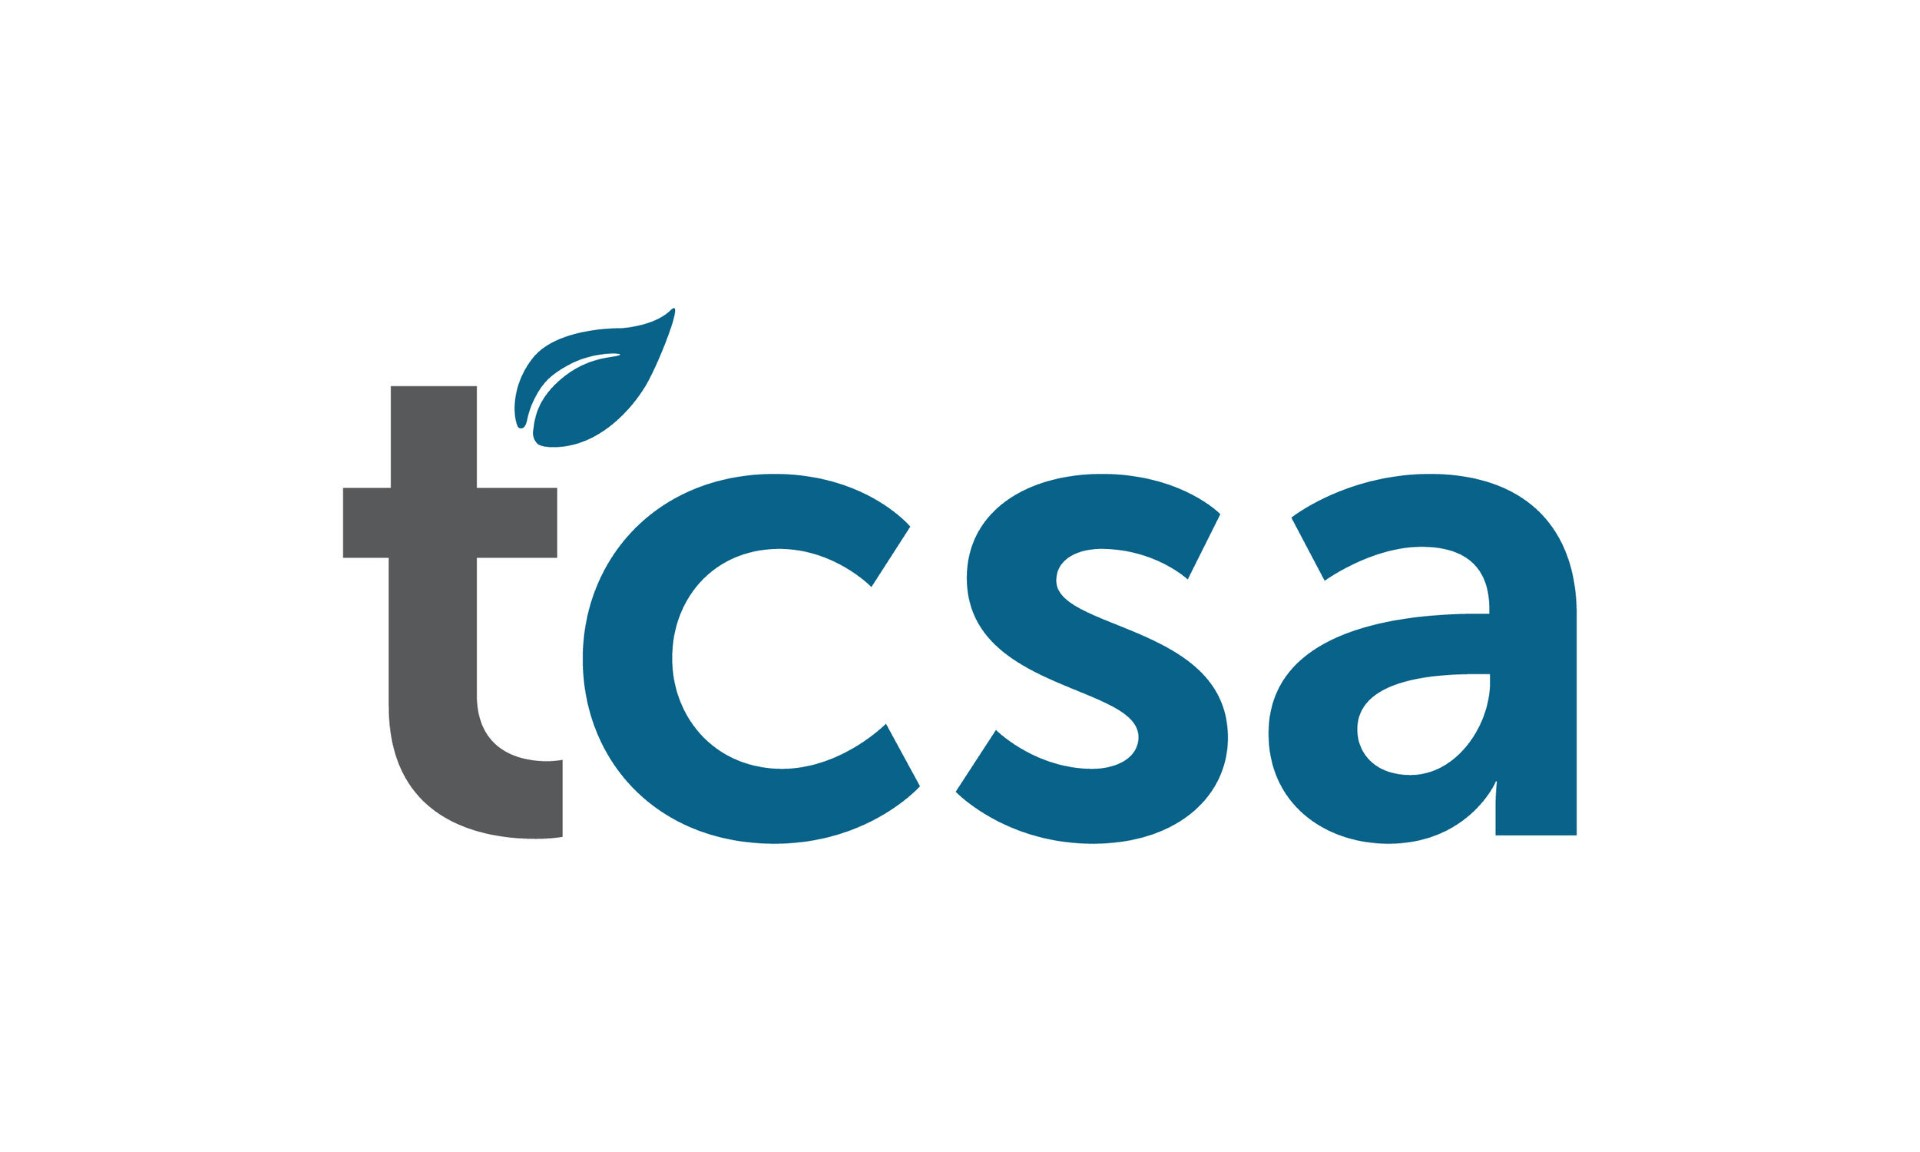
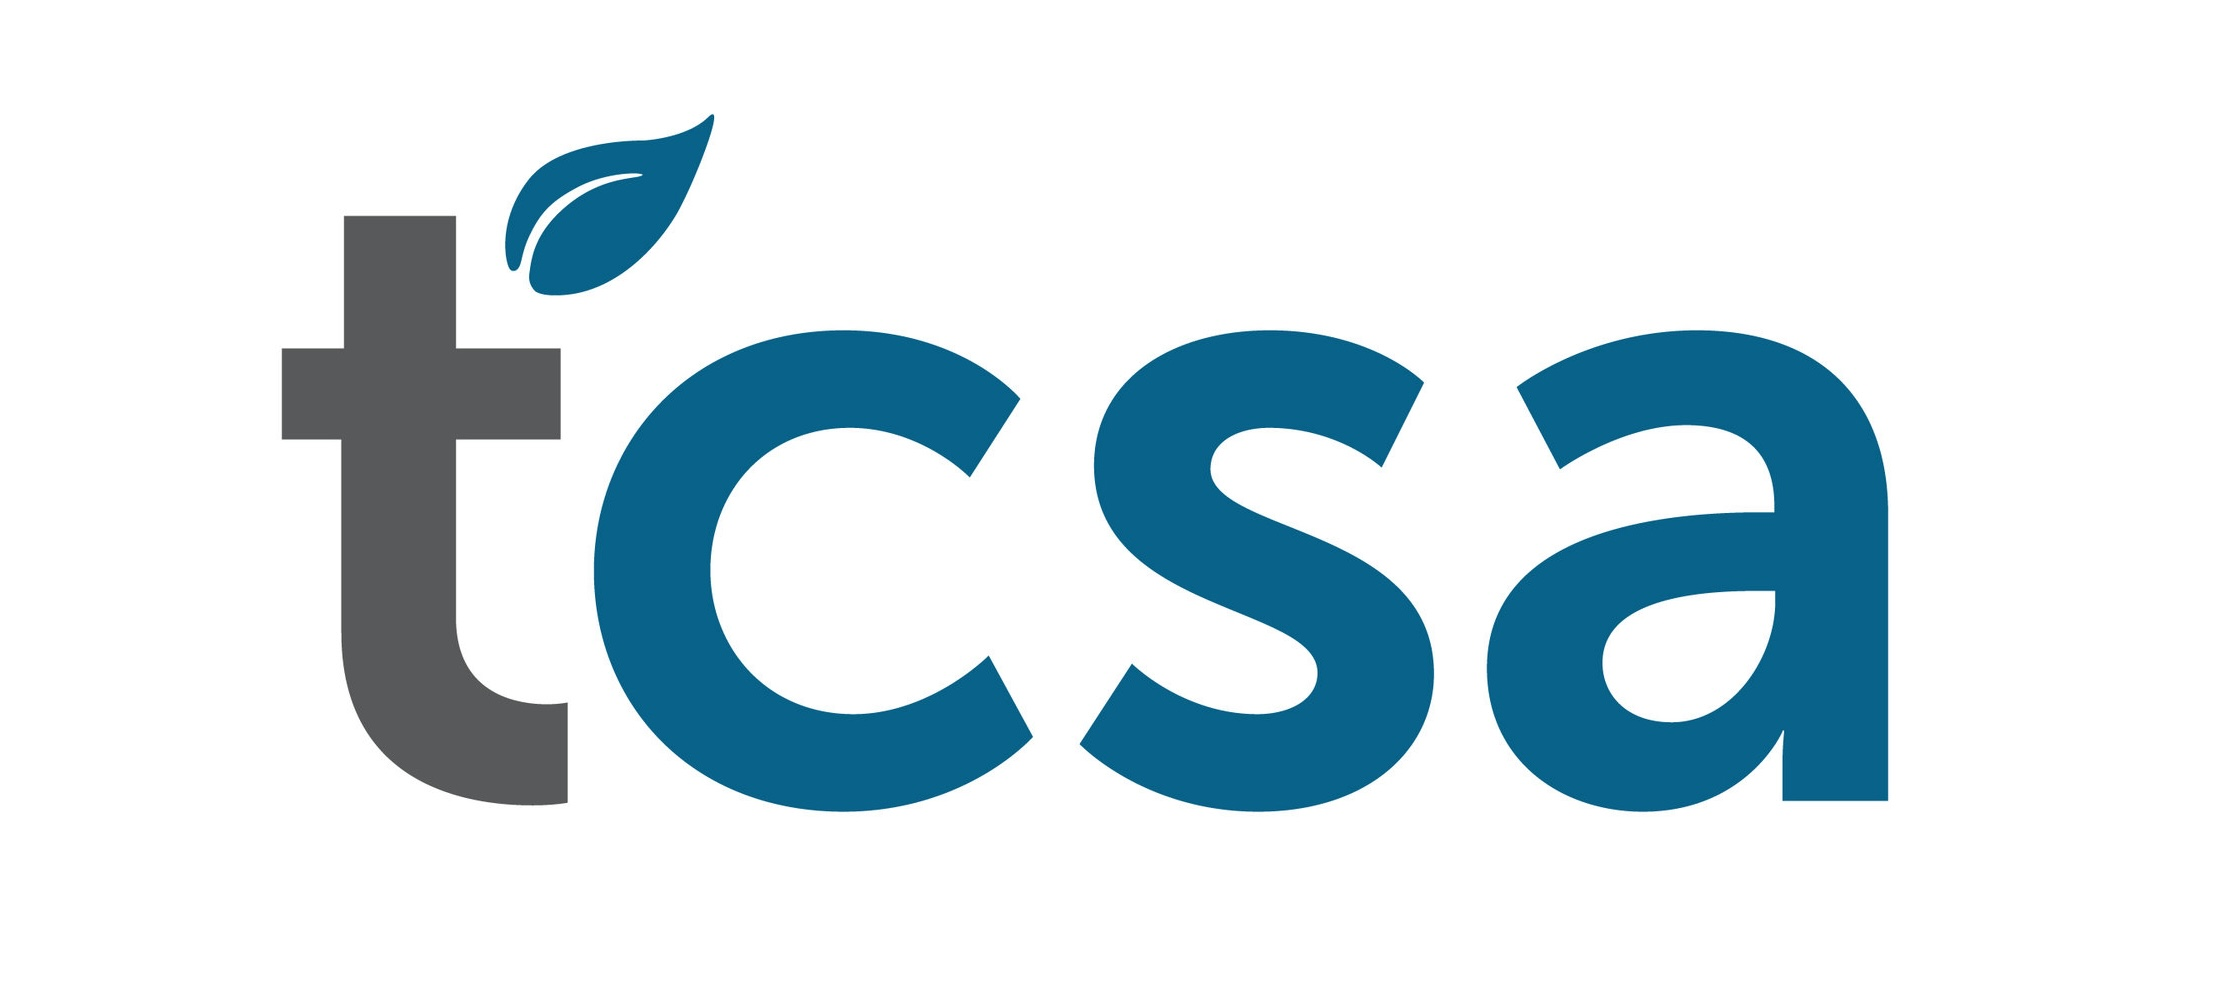
enlarged sponsors

Changed region(s): [[0.125, 0.1239, 0.875, 0.8362]]

diff --git a/src/pages/Sponsor.jsx b/src/pages/Sponsor.jsx
@@ -9,44 +9,52 @@ import lady from '../assets/lady.png';
 import gzowski from '../assets/gzowski.png';
 import pwd from '../assets/1pwd4.png';
 import bestbuy from '../assets/bb5.png';
-import tcsa from '../assets/tcsa5.png'
+import tcsa from '../assets/tcsa1.jpg'
 import ScrollReveal from '../components/ScrollReveal';
+import Osmows from '../assets/osmows.webp';
+import Chatime from '../assets/chatime.svg';
 import './Sponsor.css';
 
-const logos = [
-  { name: 'Cluster', src: cluster },
-  { name: 'Trail', src: trail },
-  { name: 'Champlain', src: champlain },
-  { name: 'Ontonabbe', src: ontonabbe },
-  { name: 'Lady', src: lady },
-  { name: 'Gzowski', src: gzowski },
-  { name: 'Best Buy', src: bestbuy },
-  { name: 'TCSA', src: tcsa },
-  { name: 'PWD', src: pwd },
+const logosTier1 = [
+  { name: 'TCSA', src: tcsa, tier: 1 },
+  { name: 'Osmows', src: Osmows, tier: 1},
+  { name: 'Chatime', src: Chatime, tier: 1},
+]
+// className:'w-36 h-auto object-contain inline-block py-4'
+const logosTier2 = [
+  { name: 'Cluster', src: cluster, tier: 2, className:'w-36 h-auto object-contain inline-block py-4'},
+  { name: 'Trail', src: trail , tier: 2, className:'w-36 h-auto object-contain inline-block py-4'},
+  { name: 'Champlain', src: champlain, tier: 2, className:'w-36 h-auto object-contain inline-block py-4' },
+  { name: 'Ontonabbe', src: ontonabbe , tier: 2, className:'w-36 h-auto object-contain inline-block py-4'},
+  { name: 'Lady', src: lady , tier : 2, className:'w-36 h-auto object-contain inline-block py-4'},
+  { name: 'Gzowski', src: gzowski, tier: 2, className:'w-36 h-auto object-contain inline-block py-4'},
+  { name: 'Best Buy', src: bestbuy, tier: 2, className:'w-36 h-auto object-contain inline-block py-4'},
+  { name: 'PWD', src: pwd, tier: 2, className:'w-36 h-auto object-contain inline-block py-4'},
 ];
 
 const LogoSlider = () => {
   const sliderRef = useRef(null);
 
-  useEffect(() => {
-    const slider = sliderRef.current;
-    let animationFrameId;
-    let startPosition = 0;
+  // SCROLL ANIMATION TEMPORARILY REMOVED UNLESS THERE'S MORE SPONSORS
+  // useEffect(() => {
+  //   const slider = sliderRef.current;
+  //   let animationFrameId;
+  //   let startPosition = 0;
 
-    const scrollSlider = () => {
-      startPosition += 1; // Increase the scroll speed by changing this value
-      if (slider.scrollWidth - slider.clientWidth <= startPosition) {
-        // Reset to the start once the scroll reaches the end
-        startPosition = 0;
-      }
-      slider.scrollLeft = startPosition;
-      animationFrameId = requestAnimationFrame(scrollSlider);
-    };
+  //   const scrollSlider = () => {
+  //     startPosition += 1; // Increase the scroll speed by changing this value
+  //     if (slider.scrollWidth - slider.clientWidth <= startPosition) {
+  //       // Reset to the start once the scroll reaches the end
+  //       startPosition = 0;
+  //     }
+  //     slider.scrollLeft = startPosition;
+  //     animationFrameId = requestAnimationFrame(scrollSlider);
+  //   };
 
-    animationFrameId = requestAnimationFrame(scrollSlider);
+  //   animationFrameId = requestAnimationFrame(scrollSlider);
 
-    return () => cancelAnimationFrame(animationFrameId);
-  }, []);
+  //   return () => cancelAnimationFrame(animationFrameId);
+  // }, []);
 
   return (
     <div className="relative overflow-hidden bg-[] rounded-[20px] md:mt-20">
@@ -54,16 +62,30 @@ const LogoSlider = () => {
         Our Sponsors
       </h1>
       <div
-        className="flex overflow-hidden py-4 whitespace-nowrap gap-5"
+        className="flex flex-wrap md:flex-nowrap gap-4 justify-center mt-[3rem] items-center"
         ref={sliderRef}
       >
-        {[...logos, ...logos].map((logo, index) => (
+        {[...logosTier1].map((logo, index) => (
+          <div className='w-full md:w-[15rem] flex items-center justify-center rounded-xl bg-white overflow-hidden md:py-0'>
+            <img
+              key={`${logo.name}-${index}`}
+              src={logo.src}
+              alt={`${logo.name} Logo`}
+              className='h-[6rem] md:h-[7rem] p-5 md:p-5'
+            />
+          </div>
+        ))}
+      </div>
+      <div className='flex mt-[3rem] justify-center flex-wrap'>
+      {[...logosTier2].map((logo, index) => (
+        <div className='h-[7.5rem]'>
           <img
             key={`${logo.name}-${index}`}
             src={logo.src}
             alt={`${logo.name} Logo`}
-            className="w-36 h-auto object-contain inline-block py-4"
+            className='h-[100%]'
           />
+        </div>
         ))}
       </div>
     </div>

diff --git a/src/pages/Team.jsx b/src/pages/Team.jsx
@@ -188,7 +188,7 @@ function Team() {
             onClick={() => handleSelection(-1)}
           />
 
-          <div className="w-full sm:w-auto flex space-x-1 sm:space-x-4">
+          <div className="w-full sm:w-auto flex justify-center space-x-1 sm:space-x-4">
             {visibleCategories.map((category, index) => (
               <div
                 key={category}
